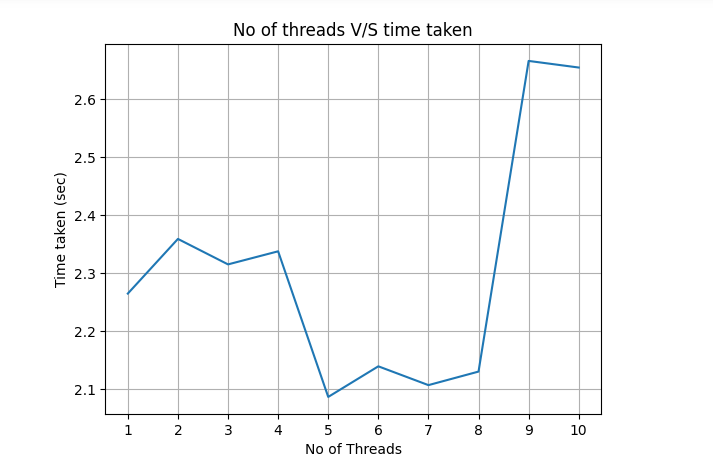
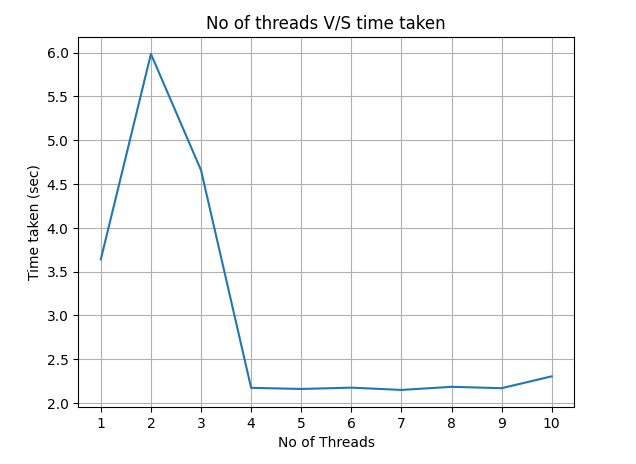
readme added

Changed region(s): [[0.0299, 0.0302, 0.8962, 0.9655], [0.5079, 0.3922, 0.5676, 0.5129]]

diff --git a/Readme.md b/Readme.md
@@ -1,0 +1,13 @@
+# Mutli-Threading Assignment
+
+### OBJECTIVE:
+To perform multiplication of 100 matrices of size 1000 X 1000 with varying number of threads and generate visual data representations of time taken and cpu usage.
+
+### RESULTS:
+#### CPU usage-
+![image](./public/CPU.PNG)
+#### Number of threads v/s Time Taken-
+![image](./public/graph.PNG)
+![image](./public/table.PNG)
+
+It is observed that the minimum time is taken when the the number of threads are 4.
